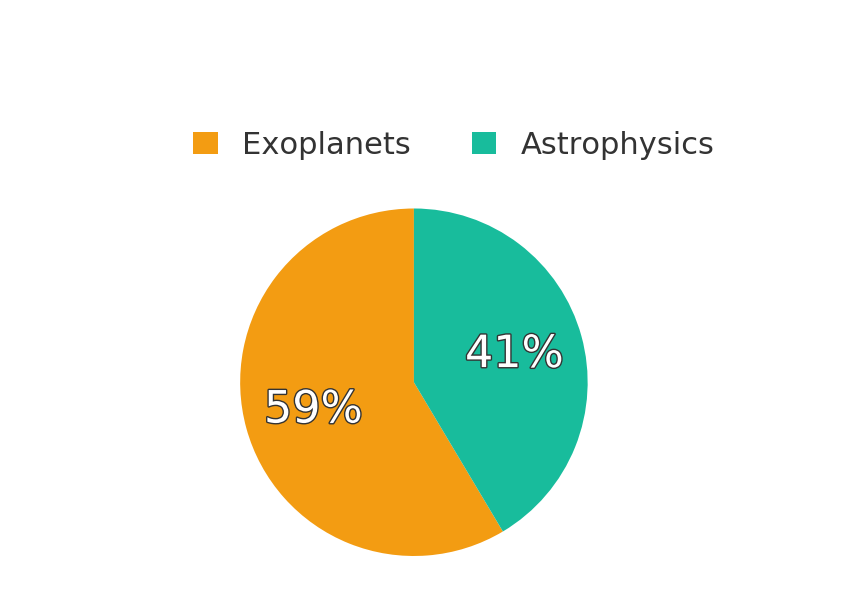
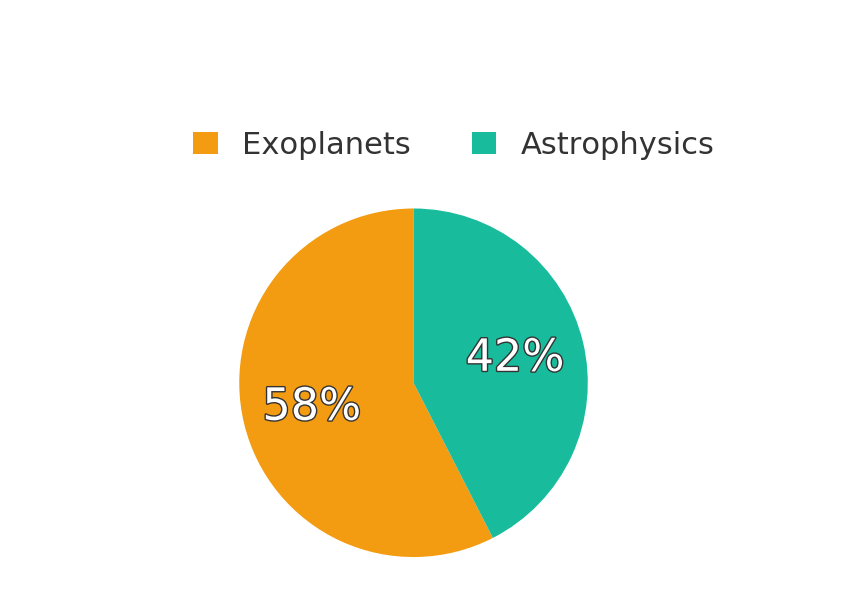
Publication stats update

diff --git a/content/pages/tpub/tpub.md b/content/pages/tpub/tpub.md
@@ -83,79 +83,87 @@ Kostov, Veselin B., Schlieder, Joshua E., Barclay, Thomas, et al.
 Vallely, P. J., Fausnaugh, M., Jha, S. W., et al.    
 2019, not refereed ([2019arXiv190308665V](http://adsabs.harvard.edu/abs/2019arXiv190308665V))  
 
-20. [TESS EXOPLANET CANDIDATES VALIDATED WITH HARPS ARCHIVAL DATA. A MASSIVE NEPTUNE AROUND GJ 143 AND TWO NEPTUNES AROUND HD 23472](http://adsabs.harvard.edu/abs/2019A&A...622L...7T)  
+20. [ELEANOR: AN OPEN-SOURCE TOOL FOR EXTRACTING LIGHT CURVES FROM THE TESS FULL-FRAME IMAGES](http://adsabs.harvard.edu/abs/2019arXiv190309152F)  
+Feinstein, Adina D., Montet, Benjamin T., Foreman-Mackey, Daniel, et al.    
+2019, not refereed ([2019arXiv190309152F](http://adsabs.harvard.edu/abs/2019arXiv190309152F))  
+
+21. [DATA-DRIVEN STELLAR PARAMETERS FOR SOUTHERN TESS FGK TARGETS](http://adsabs.harvard.edu/abs/2019MNRAS.tmp..737D)  
+Deacon, N. R., Henning, Th, Kossakowski, D. E.    
+2019, refereed ([2019MNRAS.tmp..737D](http://adsabs.harvard.edu/abs/2019MNRAS.tmp..737D))  
+
+22. [TESS EXOPLANET CANDIDATES VALIDATED WITH HARPS ARCHIVAL DATA. A MASSIVE NEPTUNE AROUND GJ 143 AND TWO NEPTUNES AROUND HD 23472](http://adsabs.harvard.edu/abs/2019A&A...622L...7T)  
 Trifonov, Trifon, Rybizki, Jan, Kürster, Martin    
 2019, refereed ([2019A&A...622L...7T](http://adsabs.harvard.edu/abs/2019A&A...622L...7T))  
 
-21. [HD 202772A B: A TRANSITING HOT JUPITER AROUND A BRIGHT, MILDLY EVOLVED STAR IN A VISUAL BINARY DISCOVERED BY TESS](http://adsabs.harvard.edu/abs/2019AJ....157...51W)  
+23. [HD 202772A B: A TRANSITING HOT JUPITER AROUND A BRIGHT, MILDLY EVOLVED STAR IN A VISUAL BINARY DISCOVERED BY TESS](http://adsabs.harvard.edu/abs/2019AJ....157...51W)  
 Wang, Songhu, Jones, Matias, Shporer, Avi, et al.    
 2019, refereed ([2019AJ....157...51W](http://adsabs.harvard.edu/abs/2019AJ....157...51W))  
 
-22. [AN ESTIMATE OF THE YIELD OF SINGLE-TRANSIT PLANETARY EVENTS FROM THE TRANSITING EXOPLANET SURVEY SATELLITE](http://adsabs.harvard.edu/abs/2019AJ....157...84V)  
+24. [AN ESTIMATE OF THE YIELD OF SINGLE-TRANSIT PLANETARY EVENTS FROM THE TRANSITING EXOPLANET SURVEY SATELLITE](http://adsabs.harvard.edu/abs/2019AJ....157...84V)  
 Villanueva, Steven, Jr., Dragomir, Diana, Gaudi, B. Scott    
 2019, refereed ([2019AJ....157...84V](http://adsabs.harvard.edu/abs/2019AJ....157...84V))  
 
-23. [TESS DISCOVERY OF AN ULTRA-SHORT-PERIOD PLANET AROUND THE NEARBY M DWARF LHS 3844](http://adsabs.harvard.edu/abs/2019ApJ...871L..24V)  
+25. [TESS DISCOVERY OF AN ULTRA-SHORT-PERIOD PLANET AROUND THE NEARBY M DWARF LHS 3844](http://adsabs.harvard.edu/abs/2019ApJ...871L..24V)  
 Vanderspek, Roland, Huang, Chelsea X., Vanderburg, Andrew, et al.    
 2019, refereed ([2019ApJ...871L..24V](http://adsabs.harvard.edu/abs/2019ApJ...871L..24V))  
 
-24. [DIVERSE VARIABILITY OF O AND B STARS REVEALED FROM 2-MINUTE CADENCE LIGHT CURVES IN SECTORS 1 AND 2 OF THE TESS MISSION: SELECTION OF AN ASTEROSEISMIC SAMPLE](http://adsabs.harvard.edu/abs/2019ApJ...872L...9P)  
+26. [DIVERSE VARIABILITY OF O AND B STARS REVEALED FROM 2-MINUTE CADENCE LIGHT CURVES IN SECTORS 1 AND 2 OF THE TESS MISSION: SELECTION OF AN ASTEROSEISMIC SAMPLE](http://adsabs.harvard.edu/abs/2019ApJ...872L...9P)  
 Pedersen, May G., Chowdhury, Sowgata, Johnston, Cole, et al.    
 2019, refereed ([2019ApJ...872L...9P](http://adsabs.harvard.edu/abs/2019ApJ...872L...9P))  
 
-25. [EXOPLANETS IN THE ANTARCTIC SKY. I. THE FIRST DATA RELEASE OF AST3-II (CHESPA) AND NEW FOUND VARIABLES WITHIN THE SOUTHERN CVZ OF TESS](http://adsabs.harvard.edu/abs/2019ApJS..240...16Z)  
+27. [EXOPLANETS IN THE ANTARCTIC SKY. I. THE FIRST DATA RELEASE OF AST3-II (CHESPA) AND NEW FOUND VARIABLES WITHIN THE SOUTHERN CVZ OF TESS](http://adsabs.harvard.edu/abs/2019ApJS..240...16Z)  
 Zhang, Hui, Yu, Zhouyi, Liang, Ensi, et al.    
 2019, refereed ([2019ApJS..240...16Z](http://adsabs.harvard.edu/abs/2019ApJS..240...16Z))  
 
-26. [EXOPLANETS IN THE ANTARCTIC SKY. II. 116 TRANSITING EXOPLANET CANDIDATES FOUND BY AST3-II (CHESPA) WITHIN THE SOUTHERN CVZ OF TESS](http://adsabs.harvard.edu/abs/2019ApJS..240...17Z)  
+28. [EXOPLANETS IN THE ANTARCTIC SKY. II. 116 TRANSITING EXOPLANET CANDIDATES FOUND BY AST3-II (CHESPA) WITHIN THE SOUTHERN CVZ OF TESS](http://adsabs.harvard.edu/abs/2019ApJS..240...17Z)  
 Zhang, Hui, Yu, Zhouyi, Liang, Ensi, et al.    
 2019, refereed ([2019ApJS..240...17Z](http://adsabs.harvard.edu/abs/2019ApJS..240...17Z))  
 
-27. [ROTATIONAL MODULATION IN TESS B STARS](http://adsabs.harvard.edu/abs/2019MNRAS.tmp..576B)  
+29. [ROTATIONAL MODULATION IN TESS B STARS](http://adsabs.harvard.edu/abs/2019MNRAS.tmp..576B)  
 Balona, L. A., Handler, G., Chowdhury, S., et al.    
 2019, refereed ([2019MNRAS.tmp..576B](http://adsabs.harvard.edu/abs/2019MNRAS.tmp..576B))  
 
-28. [A RESONANT PAIR OF WARM GIANT PLANETS REVEALED BY TESS](http://adsabs.harvard.edu/abs/2019arXiv190203900K)  
+30. [A RESONANT PAIR OF WARM GIANT PLANETS REVEALED BY TESS](http://adsabs.harvard.edu/abs/2019arXiv190203900K)  
 Kipping, David, Nesvorný, David, Hartman, Joel, et al.    
 2019, not refereed ([2019arXiv190203900K](http://adsabs.harvard.edu/abs/2019arXiv190203900K))  
 
-29. [RAPID CLASSIFICATION OF TESS PLANET CANDIDATES WITH CONVOLUTIONAL NEURAL NETWORKS](http://adsabs.harvard.edu/abs/2019arXiv190208544O)  
+31. [RAPID CLASSIFICATION OF TESS PLANET CANDIDATES WITH CONVOLUTIONAL NEURAL NETWORKS](http://adsabs.harvard.edu/abs/2019arXiv190208544O)  
 Osborn, Hugh P., Ansdell, Megan, Ioannou, Yani, et al.    
 2019, not refereed ([2019arXiv190208544O](http://adsabs.harvard.edu/abs/2019arXiv190208544O))  
 
-30. [TOI-150: A TRANSITING HOT JUPITER IN THE TESS SOUTHERN CVZ](http://adsabs.harvard.edu/abs/2019arXiv190209710C)  
+32. [TOI-150: A TRANSITING HOT JUPITER IN THE TESS SOUTHERN CVZ](http://adsabs.harvard.edu/abs/2019arXiv190209710C)  
 Cañas, Caleb I., Stefansson, Gudmundur, Monson, Andrew J., et al.    
 2019, not refereed ([2019arXiv190209710C](http://adsabs.harvard.edu/abs/2019arXiv190209710C))  
 
-31. [FLIPER$_{CLASS}$: IN SEARCH OF SOLAR-LIKE PULSATORS AMONG TESS TARGETS](http://adsabs.harvard.edu/abs/2019arXiv190209854B)  
+33. [FLIPER$_{CLASS}$: IN SEARCH OF SOLAR-LIKE PULSATORS AMONG TESS TARGETS](http://adsabs.harvard.edu/abs/2019arXiv190209854B)  
 Bugnet, L., García, R. A., Mathur, S., et al.    
 2019, not refereed ([2019arXiv190209854B](http://adsabs.harvard.edu/abs/2019arXiv190209854B))  
 
-32. [PRECOVERY OF TRANSITING EXOPLANET SURVEY SATELLITE SINGLE TRANSITS WITH KILODEGREE EXTREMELY LITTLE TELESCOPE](http://adsabs.harvard.edu/abs/2019AJ....157...37Y)  
+34. [PRECOVERY OF TRANSITING EXOPLANET SURVEY SATELLITE SINGLE TRANSITS WITH KILODEGREE EXTREMELY LITTLE TELESCOPE](http://adsabs.harvard.edu/abs/2019AJ....157...37Y)  
 Yao, Xinyu, Pepper, Joshua, Gaudi, B. Scott, et al.    
 2019, refereed ([2019AJ....157...37Y](http://adsabs.harvard.edu/abs/2019AJ....157...37Y))  
 
-33. [STELLAR FLARES FROM THE FIRST TESS DATA RELEASE: EXPLORING A NEW SAMPLE OF M-DWARFS](http://adsabs.harvard.edu/abs/2019arXiv190100443G)  
+35. [STELLAR FLARES FROM THE FIRST TESS DATA RELEASE: EXPLORING A NEW SAMPLE OF M-DWARFS](http://adsabs.harvard.edu/abs/2019arXiv190100443G)  
 Günther, Maximilian N., Zhan, Zhuchang, Seager, Sara, et al.    
 2019, not refereed ([2019arXiv190100443G](http://adsabs.harvard.edu/abs/2019arXiv190100443G))  
 
-34. [A HOT SATURN ORBITING AN OSCILLATING LATE SUBGIANT DISCOVERED BY TESS](http://adsabs.harvard.edu/abs/2019arXiv190101643H)  
+36. [A HOT SATURN ORBITING AN OSCILLATING LATE SUBGIANT DISCOVERED BY TESS](http://adsabs.harvard.edu/abs/2019arXiv190101643H)  
 Huber, Daniel, Chaplin, William J., Chontos, Ashley, et al.    
 2019, not refereed ([2019arXiv190101643H](http://adsabs.harvard.edu/abs/2019arXiv190101643H))  
 
-35. [CO-ORBITAL EXOPLANETS FROM CLOSE PERIOD CANDIDATES: THE TOI-178 CASE](http://adsabs.harvard.edu/abs/2019arXiv190107250L)  
+37. [CO-ORBITAL EXOPLANETS FROM CLOSE PERIOD CANDIDATES: THE TOI-178 CASE](http://adsabs.harvard.edu/abs/2019arXiv190107250L)  
 Leleu, Adrien, Lillo-Box, Jorge, Sestovic, Marko, et al.    
 2019, not refereed ([2019arXiv190107250L](http://adsabs.harvard.edu/abs/2019arXiv190107250L))  
 
-36. [NEAR-RESONANCE IN A SYSTEM OF SUB-NEPTUNES FROM TESS](http://adsabs.harvard.edu/abs/2019arXiv190109092Q)  
+38. [NEAR-RESONANCE IN A SYSTEM OF SUB-NEPTUNES FROM TESS](http://adsabs.harvard.edu/abs/2019arXiv190109092Q)  
 Quinn, Samuel N., Becker, Juliette C., Rodriguez, Joseph E., et al.    
 2019, not refereed ([2019arXiv190109092Q](http://adsabs.harvard.edu/abs/2019arXiv190109092Q))  
 
-37. [SHORT TERM VARIABILITY OF EVOLVED MASSIVE STARS WITH TESS](http://adsabs.harvard.edu/abs/2019arXiv190109930D)  
+39. [SHORT TERM VARIABILITY OF EVOLVED MASSIVE STARS WITH TESS](http://adsabs.harvard.edu/abs/2019arXiv190109930D)  
 Dorn-Wallenstein, Trevor Z., Levesque, Emily M., Davenport, James R. A.    
 2019, not refereed ([2019arXiv190109930D](http://adsabs.harvard.edu/abs/2019arXiv190109930D))  
 
-38. [AN ECCENTRIC MASSIVE JUPITER ORBITING A SUB-GIANT ON A 9.5 DAY PERIOD DISCOVERED IN THE TRANSITING EXOPLANET SURVEY SATELLITE FULL FRAME IMAGES](http://adsabs.harvard.edu/abs/2019arXiv190109950R)  
+40. [AN ECCENTRIC MASSIVE JUPITER ORBITING A SUB-GIANT ON A 9.5 DAY PERIOD DISCOVERED IN THE TRANSITING EXOPLANET SURVEY SATELLITE FULL FRAME IMAGES](http://adsabs.harvard.edu/abs/2019arXiv190109950R)  
 Rodriguez, Joseph E., Quinn, Samuel N., Huang, Chelsea X., et al.    
 2019, not refereed ([2019arXiv190109950R](http://adsabs.harvard.edu/abs/2019arXiv190109950R))  
 

diff --git a/content/pages/tpub/tpub-astrophysics.md b/content/pages/tpub/tpub-astrophysics.md
@@ -39,23 +39,31 @@ Deacon, N. R., Henning, Th., Kossakowski, D. E.
 Vallely, P. J., Fausnaugh, M., Jha, S. W., et al.    
 2019, not refereed ([2019arXiv190308665V](http://adsabs.harvard.edu/abs/2019arXiv190308665V))  
 
-9. [DIVERSE VARIABILITY OF O AND B STARS REVEALED FROM 2-MINUTE CADENCE LIGHT CURVES IN SECTORS 1 AND 2 OF THE TESS MISSION: SELECTION OF AN ASTEROSEISMIC SAMPLE](http://adsabs.harvard.edu/abs/2019ApJ...872L...9P)  
+9. [ELEANOR: AN OPEN-SOURCE TOOL FOR EXTRACTING LIGHT CURVES FROM THE TESS FULL-FRAME IMAGES](http://adsabs.harvard.edu/abs/2019arXiv190309152F)  
+Feinstein, Adina D., Montet, Benjamin T., Foreman-Mackey, Daniel, et al.    
+2019, not refereed ([2019arXiv190309152F](http://adsabs.harvard.edu/abs/2019arXiv190309152F))  
+
+10. [DATA-DRIVEN STELLAR PARAMETERS FOR SOUTHERN TESS FGK TARGETS](http://adsabs.harvard.edu/abs/2019MNRAS.tmp..737D)  
+Deacon, N. R., Henning, Th, Kossakowski, D. E.    
+2019, refereed ([2019MNRAS.tmp..737D](http://adsabs.harvard.edu/abs/2019MNRAS.tmp..737D))  
+
+11. [DIVERSE VARIABILITY OF O AND B STARS REVEALED FROM 2-MINUTE CADENCE LIGHT CURVES IN SECTORS 1 AND 2 OF THE TESS MISSION: SELECTION OF AN ASTEROSEISMIC SAMPLE](http://adsabs.harvard.edu/abs/2019ApJ...872L...9P)  
 Pedersen, May G., Chowdhury, Sowgata, Johnston, Cole, et al.    
 2019, refereed ([2019ApJ...872L...9P](http://adsabs.harvard.edu/abs/2019ApJ...872L...9P))  
 
-10. [ROTATIONAL MODULATION IN TESS B STARS](http://adsabs.harvard.edu/abs/2019MNRAS.tmp..576B)  
+12. [ROTATIONAL MODULATION IN TESS B STARS](http://adsabs.harvard.edu/abs/2019MNRAS.tmp..576B)  
 Balona, L. A., Handler, G., Chowdhury, S., et al.    
 2019, refereed ([2019MNRAS.tmp..576B](http://adsabs.harvard.edu/abs/2019MNRAS.tmp..576B))  
 
-11. [FLIPER$_{CLASS}$: IN SEARCH OF SOLAR-LIKE PULSATORS AMONG TESS TARGETS](http://adsabs.harvard.edu/abs/2019arXiv190209854B)  
+13. [FLIPER$_{CLASS}$: IN SEARCH OF SOLAR-LIKE PULSATORS AMONG TESS TARGETS](http://adsabs.harvard.edu/abs/2019arXiv190209854B)  
 Bugnet, L., García, R. A., Mathur, S., et al.    
 2019, not refereed ([2019arXiv190209854B](http://adsabs.harvard.edu/abs/2019arXiv190209854B))  
 
-12. [STELLAR FLARES FROM THE FIRST TESS DATA RELEASE: EXPLORING A NEW SAMPLE OF M-DWARFS](http://adsabs.harvard.edu/abs/2019arXiv190100443G)  
+14. [STELLAR FLARES FROM THE FIRST TESS DATA RELEASE: EXPLORING A NEW SAMPLE OF M-DWARFS](http://adsabs.harvard.edu/abs/2019arXiv190100443G)  
 Günther, Maximilian N., Zhan, Zhuchang, Seager, Sara, et al.    
 2019, not refereed ([2019arXiv190100443G](http://adsabs.harvard.edu/abs/2019arXiv190100443G))  
 
-13. [SHORT TERM VARIABILITY OF EVOLVED MASSIVE STARS WITH TESS](http://adsabs.harvard.edu/abs/2019arXiv190109930D)  
+15. [SHORT TERM VARIABILITY OF EVOLVED MASSIVE STARS WITH TESS](http://adsabs.harvard.edu/abs/2019arXiv190109930D)  
 Dorn-Wallenstein, Trevor Z., Levesque, Emily M., Davenport, James R. A.    
 2019, not refereed ([2019arXiv190109930D](http://adsabs.harvard.edu/abs/2019arXiv190109930D))  
 

diff --git a/content/pages/tpub/publications.md b/content/pages/tpub/publications.md
@@ -12,8 +12,8 @@ the TESS mission is provided by the NASA Explorer Program.*
 
 The TESS Science Support Center curates a list of scientific publications
 pertaining to TESS.
-The database contains 111 publications,
-of which 59 are peer-reviewed.
+The database contains 113 publications,
+of which 60 are peer-reviewed.
 It demonstrates the important impact of TESS data
 on astronomical research.
 
@@ -29,7 +29,7 @@ Or seach by topic:
 If you spot an error in the database, such as a missing entry,
 please get in touch or open an issue in the <a href="https://github.com/tessgi/tpub">GitHub repository</a> of the database.
 
-Last update: 23 Mar 2019.
+Last update: 28 Mar 2019.
 
 <hr/>
 
@@ -47,10 +47,10 @@ of year.
 Both TESS data have been used for scientific applications
 that reach far beyond exoplanet research.
 While 65 works relate to exoplanets
-(59%),
-a total of 46
+(58%),
+a total of 48
 pertain to other areas of astrophysics
-(41%).
+(42%).
 
 
 ![Publications by subject](images/tpub/tpub-piechart.png)
@@ -130,7 +130,7 @@ within the last 90 days.
 <!-- ## Most-active authors
 
 The entries in the publication database have been authored and co-authored
-by a total of 888 unique author names.
+by a total of 891 unique author names.
 Here we list the most-active authors, defined as those with six or more first-author publications in our database.
 
 -->

diff --git a/content/pages/tpub/tpub-by-month.md b/content/pages/tpub/tpub-by-month.md
@@ -91,6 +91,14 @@ Kostov, Veselin B., Schlieder, Joshua E., Barclay, Thomas, et al.
 Vallely, P. J., Fausnaugh, M., Jha, S. W., et al.    
 2019, not refereed ([2019arXiv190308665V](http://adsabs.harvard.edu/abs/2019arXiv190308665V))  
 
+18. [ELEANOR: AN OPEN-SOURCE TOOL FOR EXTRACTING LIGHT CURVES FROM THE TESS FULL-FRAME IMAGES](http://adsabs.harvard.edu/abs/2019arXiv190309152F)  
+Feinstein, Adina D., Montet, Benjamin T., Foreman-Mackey, Daniel, et al.    
+2019, not refereed ([2019arXiv190309152F](http://adsabs.harvard.edu/abs/2019arXiv190309152F))  
+
+19. [DATA-DRIVEN STELLAR PARAMETERS FOR SOUTHERN TESS FGK TARGETS](http://adsabs.harvard.edu/abs/2019MNRAS.tmp..737D)  
+Deacon, N. R., Henning, Th, Kossakowski, D. E.    
+2019, refereed ([2019MNRAS.tmp..737D](http://adsabs.harvard.edu/abs/2019MNRAS.tmp..737D))  
+
 
 2019-02
 -------

diff --git a/content/pages/tpub/tpub-astrophysics-by-month.md b/content/pages/tpub/tpub-astrophysics-by-month.md
@@ -43,6 +43,14 @@ Deacon, N. R., Henning, Th., Kossakowski, D. E.
 Vallely, P. J., Fausnaugh, M., Jha, S. W., et al.    
 2019, not refereed ([2019arXiv190308665V](http://adsabs.harvard.edu/abs/2019arXiv190308665V))  
 
+8. [ELEANOR: AN OPEN-SOURCE TOOL FOR EXTRACTING LIGHT CURVES FROM THE TESS FULL-FRAME IMAGES](http://adsabs.harvard.edu/abs/2019arXiv190309152F)  
+Feinstein, Adina D., Montet, Benjamin T., Foreman-Mackey, Daniel, et al.    
+2019, not refereed ([2019arXiv190309152F](http://adsabs.harvard.edu/abs/2019arXiv190309152F))  
+
+9. [DATA-DRIVEN STELLAR PARAMETERS FOR SOUTHERN TESS FGK TARGETS](http://adsabs.harvard.edu/abs/2019MNRAS.tmp..737D)  
+Deacon, N. R., Henning, Th, Kossakowski, D. E.    
+2019, refereed ([2019MNRAS.tmp..737D](http://adsabs.harvard.edu/abs/2019MNRAS.tmp..737D))  
+
 
 2019-02
 -------
